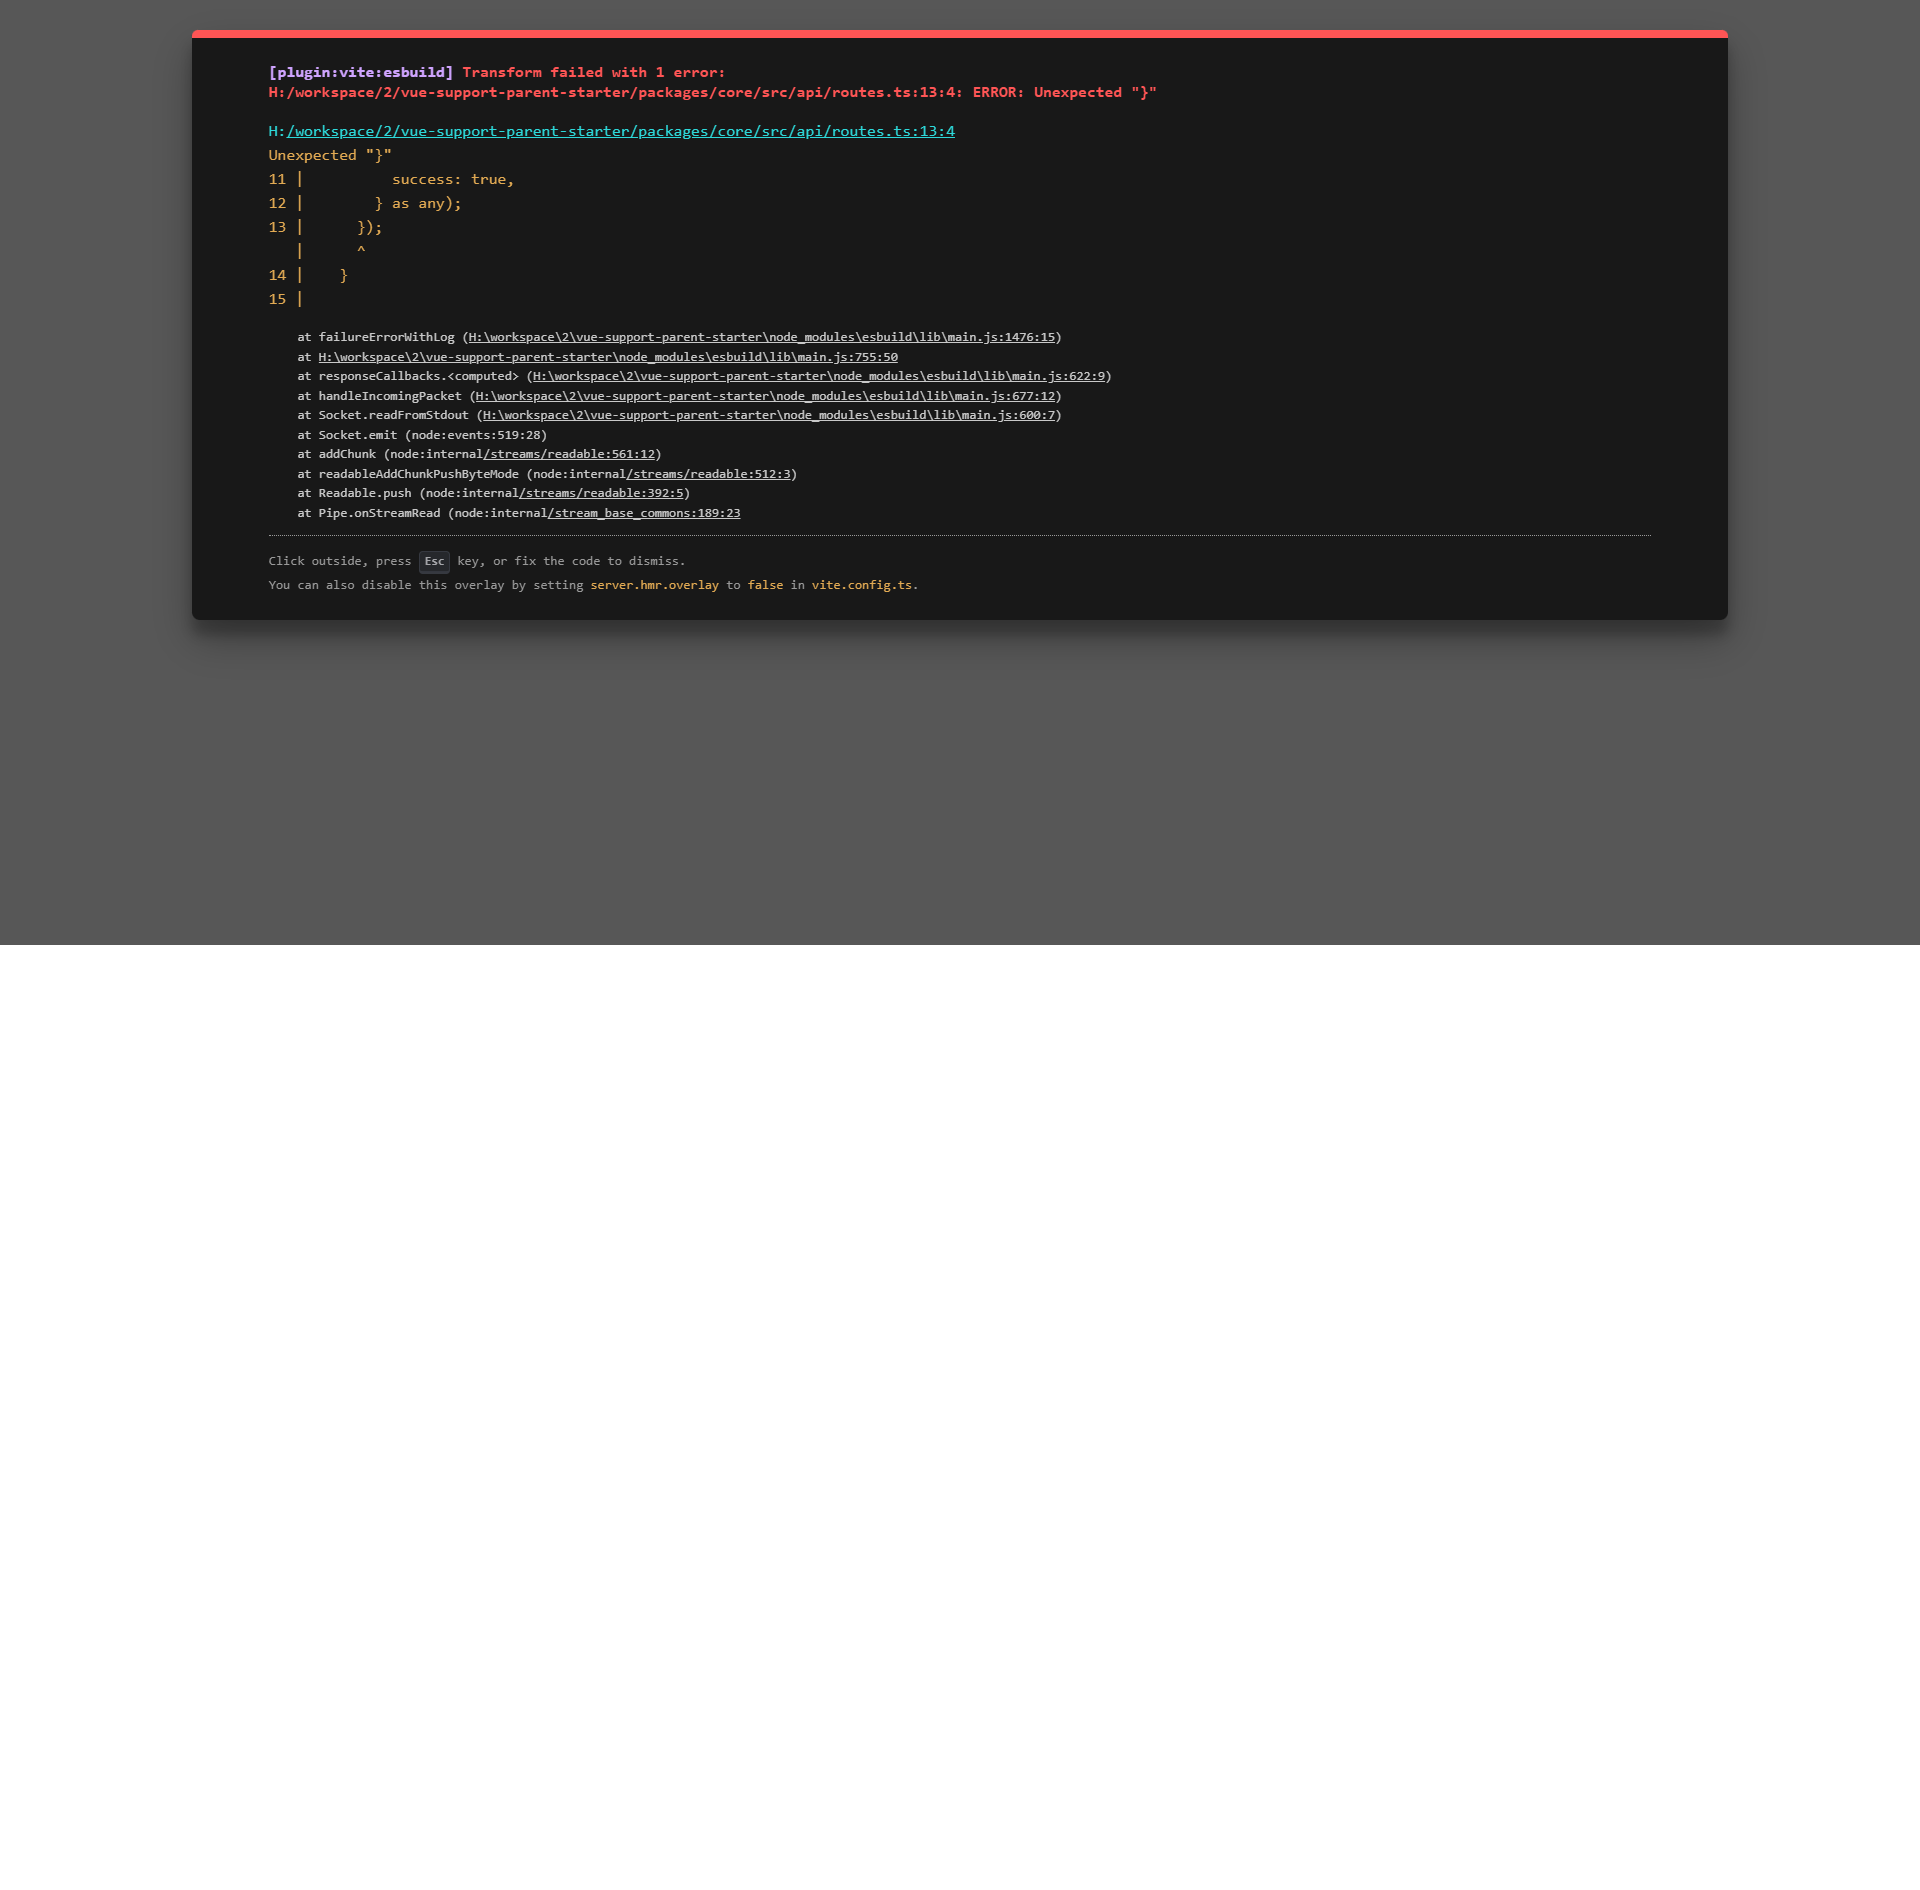
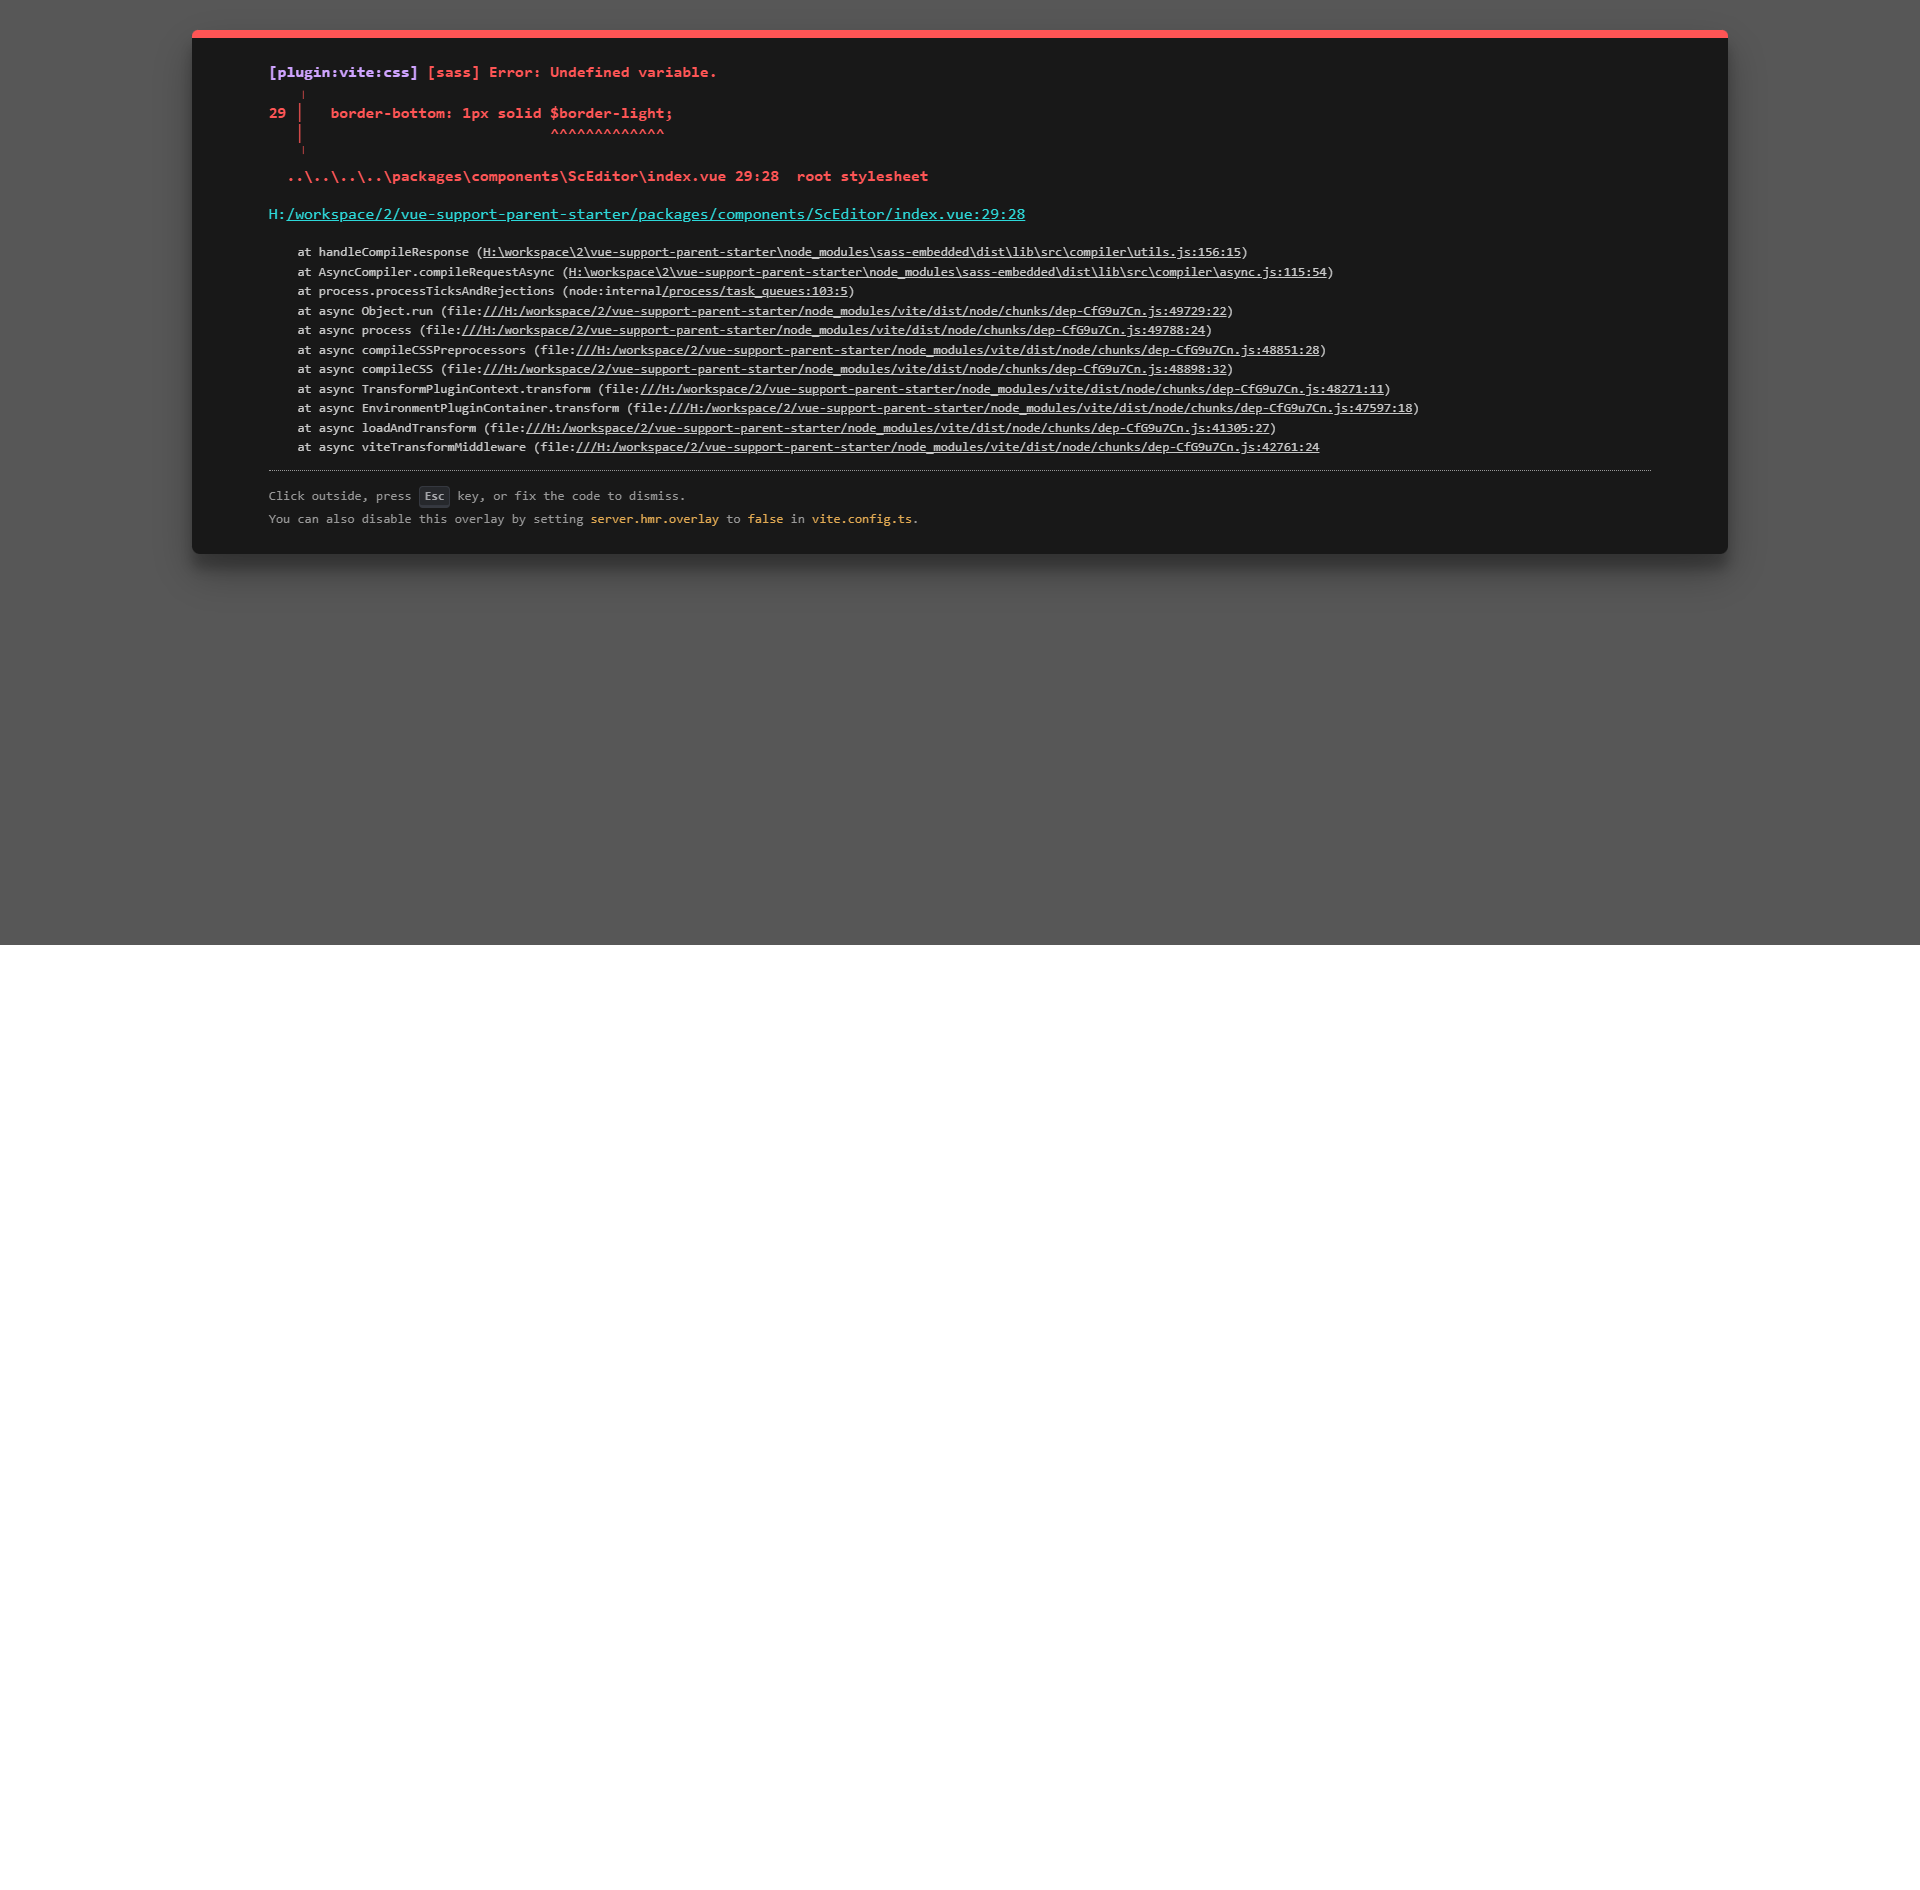
fix: 修复多个文件的合并冲突和语法错误
- 修复 ScEditor 组件的 SCSS 变量问题
- 修复 useThemeComponent.ts 文件结尾缺失
- 修复 themeConfig.ts 合并冲突

Changed region(s): [[0.0938, 0.0312, 0.9062, 0.3434]]

diff --git a/packages/components/hooks/themeConfig.ts b/packages/components/hooks/themeConfig.ts
@@ -341,7 +341,9 @@ async function registerThemePluginForSkin(app: App, skinValue: string): Promise<
       const importer = PLUGIN_IMPORTERS[packageName];
       if (!importer) {
         // eslint-disable-next-line no-console
-        console.warn(`[ThemePlugin] 主题 ${theme.name} 的插件包 ${packageName} 未在 PLUGIN_IMPORTERS 中注册`);
+        console.warn(
+          `[ThemePlugin] 主题 ${theme.name} 的插件包 ${packageName} 未在 PLUGIN_IMPORTERS 中注册`,
+        );
         theme.enabled = false;
         return;
       }
@@ -357,12 +359,22 @@ async function registerThemePluginForSkin(app: App, skinValue: string): Promise<
       const context = (app as any)._context;
       const plugins = context?.plugins;
 
-=======
-      // 检查是否已注册：通过比较插件对象引用或 install 方法
->>>>>>> 0b6528f1dfbf32db414a1a5d12846317583de126
       let alreadyRegisteredInApp = false;
       if (Array.isArray(plugins) && plugins.length > 0) {
         const pluginInstall = typeof plugin === "function" ? plugin : plugin.install;
+
+        alreadyRegisteredInApp = plugins.some((registeredPlugin: any) => {
+          if (registeredPlugin === plugin) {
+            return true;
+          }
+
+          const registeredInstall = typeof registeredPlugin === "function"
+            ? registeredPlugin
+            : registeredPlugin?.install;
+
+          if (pluginInstall && registeredInstall && pluginInstall === registeredInstall) {
+            return true;
+          }
 
           const pluginName = pluginInstall?.name || plugin.name;
           const registeredName = registeredInstall?.name || registeredPlugin?.name;
@@ -380,6 +392,15 @@ async function registerThemePluginForSkin(app: App, skinValue: string): Promise<
       }
 
       registeredPlugins.add(packageName);
+      app.use(plugin);
+      // eslint-disable-next-line no-console
+      console.log(`[ThemePlugin] 已注册主题 ${theme.name} 的插件 ${packageName}`);
+    } catch (error) {
+      const registeredPlugins = REGISTERED_THEME_PLUGINS_BY_APP.get(app);
+      if (registeredPlugins) {
+        registeredPlugins.delete(packageName);
+      }
+
       // eslint-disable-next-line no-console
       console.warn(`[ThemePlugin] 主题 ${theme.name} 插件加载失败，已禁用该主题:`, error);
       theme.enabled = false;
@@ -404,6 +425,11 @@ export async function autoRegisterThemePlugins(app: App): Promise<void> {
 
 export async function ensureThemePluginForCurrentSkin(): Promise<void> {
   if (!themePluginApp) {
+    return;
+  }
+
+  if (ensuringPromise) {
+    await ensuringPromise;
     return;
   }
 

diff --git a/packages/components/hooks/useThemeComponent.ts b/packages/components/hooks/useThemeComponent.ts
@@ -902,3 +902,39 @@ export function useThemeComponent(elementComponentName: string) {
     { immediate: true }
   );
 
+  /**
+   * 返回组合式函数的公共 API
+   */
+  return {
+    /**
+     * 当前主题组件实例
+     */
+    themeComponent,
+    /**
+     * 组件是否正在加载
+     */
+    loading,
+    /**
+     * 加载过程中的错误信息
+     */
+    error,
+    /**
+     * 手动重新加载组件
+     */
+    reload: loadComponent
+  };
+}
+
+export default useThemeComponent;
+
+/**
+ * 初始化主题系统
+ * 在应用启动时调用，预加载当前主题
+ */
+export async function initThemeSystem(): Promise<void> {
+  const currentSkin = getCurrentSkin();
+  if (currentSkin) {
+    logger.info(`[useThemeComponent] 初始化主题系统，当前主题: ${currentSkin}`);
+    await preloadTheme(currentSkin);
+  }
+}

diff --git a/packages/build-config/src/utils.ts b/packages/build-config/src/utils.ts
@@ -73,7 +73,7 @@ export const createAlias = (metaUrl: string): Record<string, string> => {
     "@repo/components": resolve(root, "packages/components"),
     "@repo/config": resolve(root, "packages/config"),
     "@repo/core": resolve(root, "packages/core"),
-    "@repo/pages": resolve(root, "packages/pages"),
+    "@repo/common-pages": resolve(root, "packages/pages"),
     "@repo/utils": resolve(root, "packages/utils"),
     "@repo/codec-wasm": resolve(root, "packages/codec-wasm"),
     // standalone 目录下的可视化/大组件包：避免被错误解析到 packages/{name}

diff --git a/layout/default/src/index.vue b/layout/default/src/index.vue
@@ -18,7 +18,7 @@ import { useWatermarkSetup } from "./hooks/useWatermarkSetup";
 import { useDebugMode } from "./hooks/useDebugMode";
 import { setType } from "./types";
 import { ScDebugConsole } from "@repo/components"
-import { CoolLoading } from "@repo/pages";
+import { CoolLoading } from "@repo/common-pages";
 
 import { useGlobal } from "@pureadmin/utils";
 import { storeToRefs } from "pinia";

diff --git a/packages/components/ScEditor/index.vue b/packages/components/ScEditor/index.vue
@@ -129,7 +129,7 @@ watch(disabled, val => {
 }
 
 .sc-editor-toolbar {
-  border-bottom: 1px solid $border-light;
-  background-color: $bg-glass-toolbar;
+  border-bottom: 1px solid var(--el-border-color-light);
+  background-color: var(--el-bg-color);
 }
 </style>

diff --git a/packages/pages/page/remaining/RemainingComponentPage.vue b/packages/pages/page/remaining/RemainingComponentPage.vue
@@ -24,7 +24,7 @@
 import { computed, onMounted, ref } from "vue";
 import { useRoute, useRouter } from "vue-router";
 // @ts-ignore
-import { CoolLoading } from "@repo/pages";
+import { CoolLoading } from "@repo/common-pages";
 /**
  * 组件页面
  * @author CH
